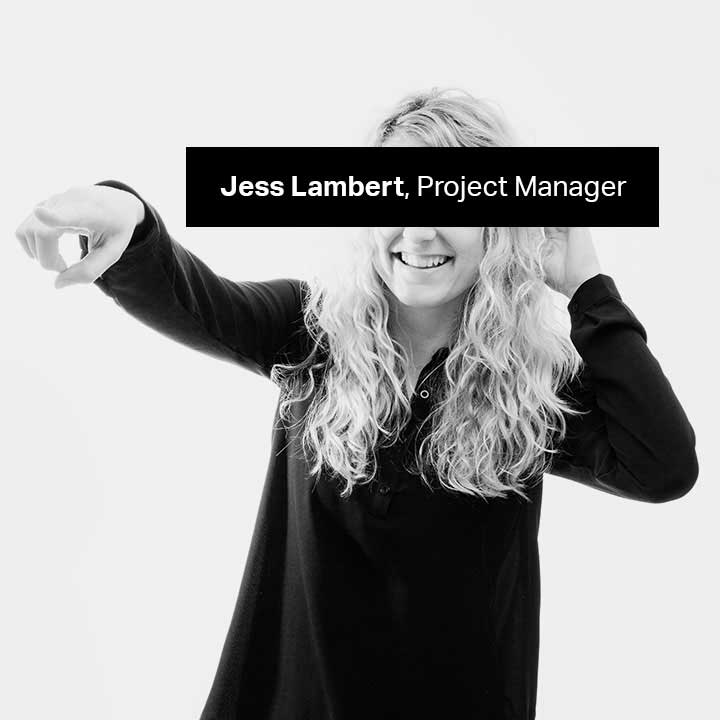
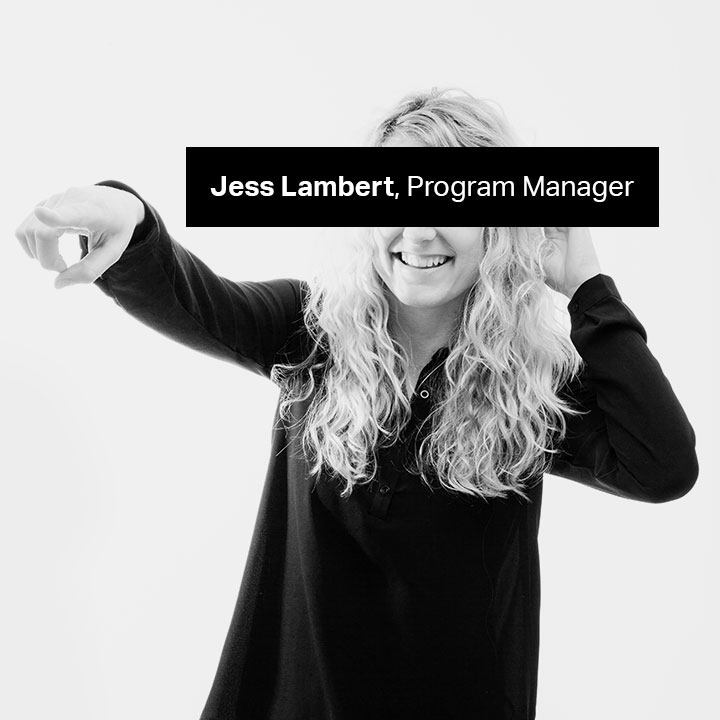
updated title

Changed region(s): [[0.275, 0.2444, 0.8861, 0.275]]

diff --git a/pub/about/index.html b/pub/about/index.html
@@ -603,7 +603,7 @@ limitations under the License.
                 <div class="close">&#10005;</div>
                 <div class="copy">
                   <div class="name">Sarah Blumenstein</div>
-                  <div class="position">Project Manager</div>
+                  <div class="position">Program Manager</div>
                   <div class="summary">Born and raised outside Philadelphia, Sarah has embodied the Keystone moniker of her home state. Sarah is key to all of Astro's programs and projects due to her meticulous attention to detail, general cheeriness and downright damn good ideas. After receiving her BA in International Relations from the University of Colorado, she headed west and landed in SF. Since then, Sarah has immersed herself in the design process, defining projects and managing programs for clients ranging from established brands to up-and-coming visionaries.</div>
                 </div>
               </div>
@@ -707,7 +707,7 @@ limitations under the License.
                 <div class="close">&#10005;</div>
                 <div class="copy">
                   <div class="name">Jess Lambert</div>
-                  <div class="position">Project Manager</div>
+                  <div class="position">Program Manager</div>
                   <div class="summary">Jess built her strong character, sense of humor and empathy during graveyard shifts at a bingo parlor outside Denver CO. Believing she hadn’t quite found her niche, Jess pursued higher education at the Savannah College of Art &amp; Design. After receiving her degree, Jess spent her artistic energy hustling galleries in NYC, but alas, made the leap from fine art to commercial arts. Her arts background naturally led her to collaborate with design, advertising and branding agencies in NY. A quick stroll across the country found her furthering this agency based career. Quickly succumbing to her new found Mexican food habit, Jess found that she also loves the Bay Area for urban diversity, proximity to nature, backyard access and a kickass job at Astro.</div>
                 </div>
               </div>
